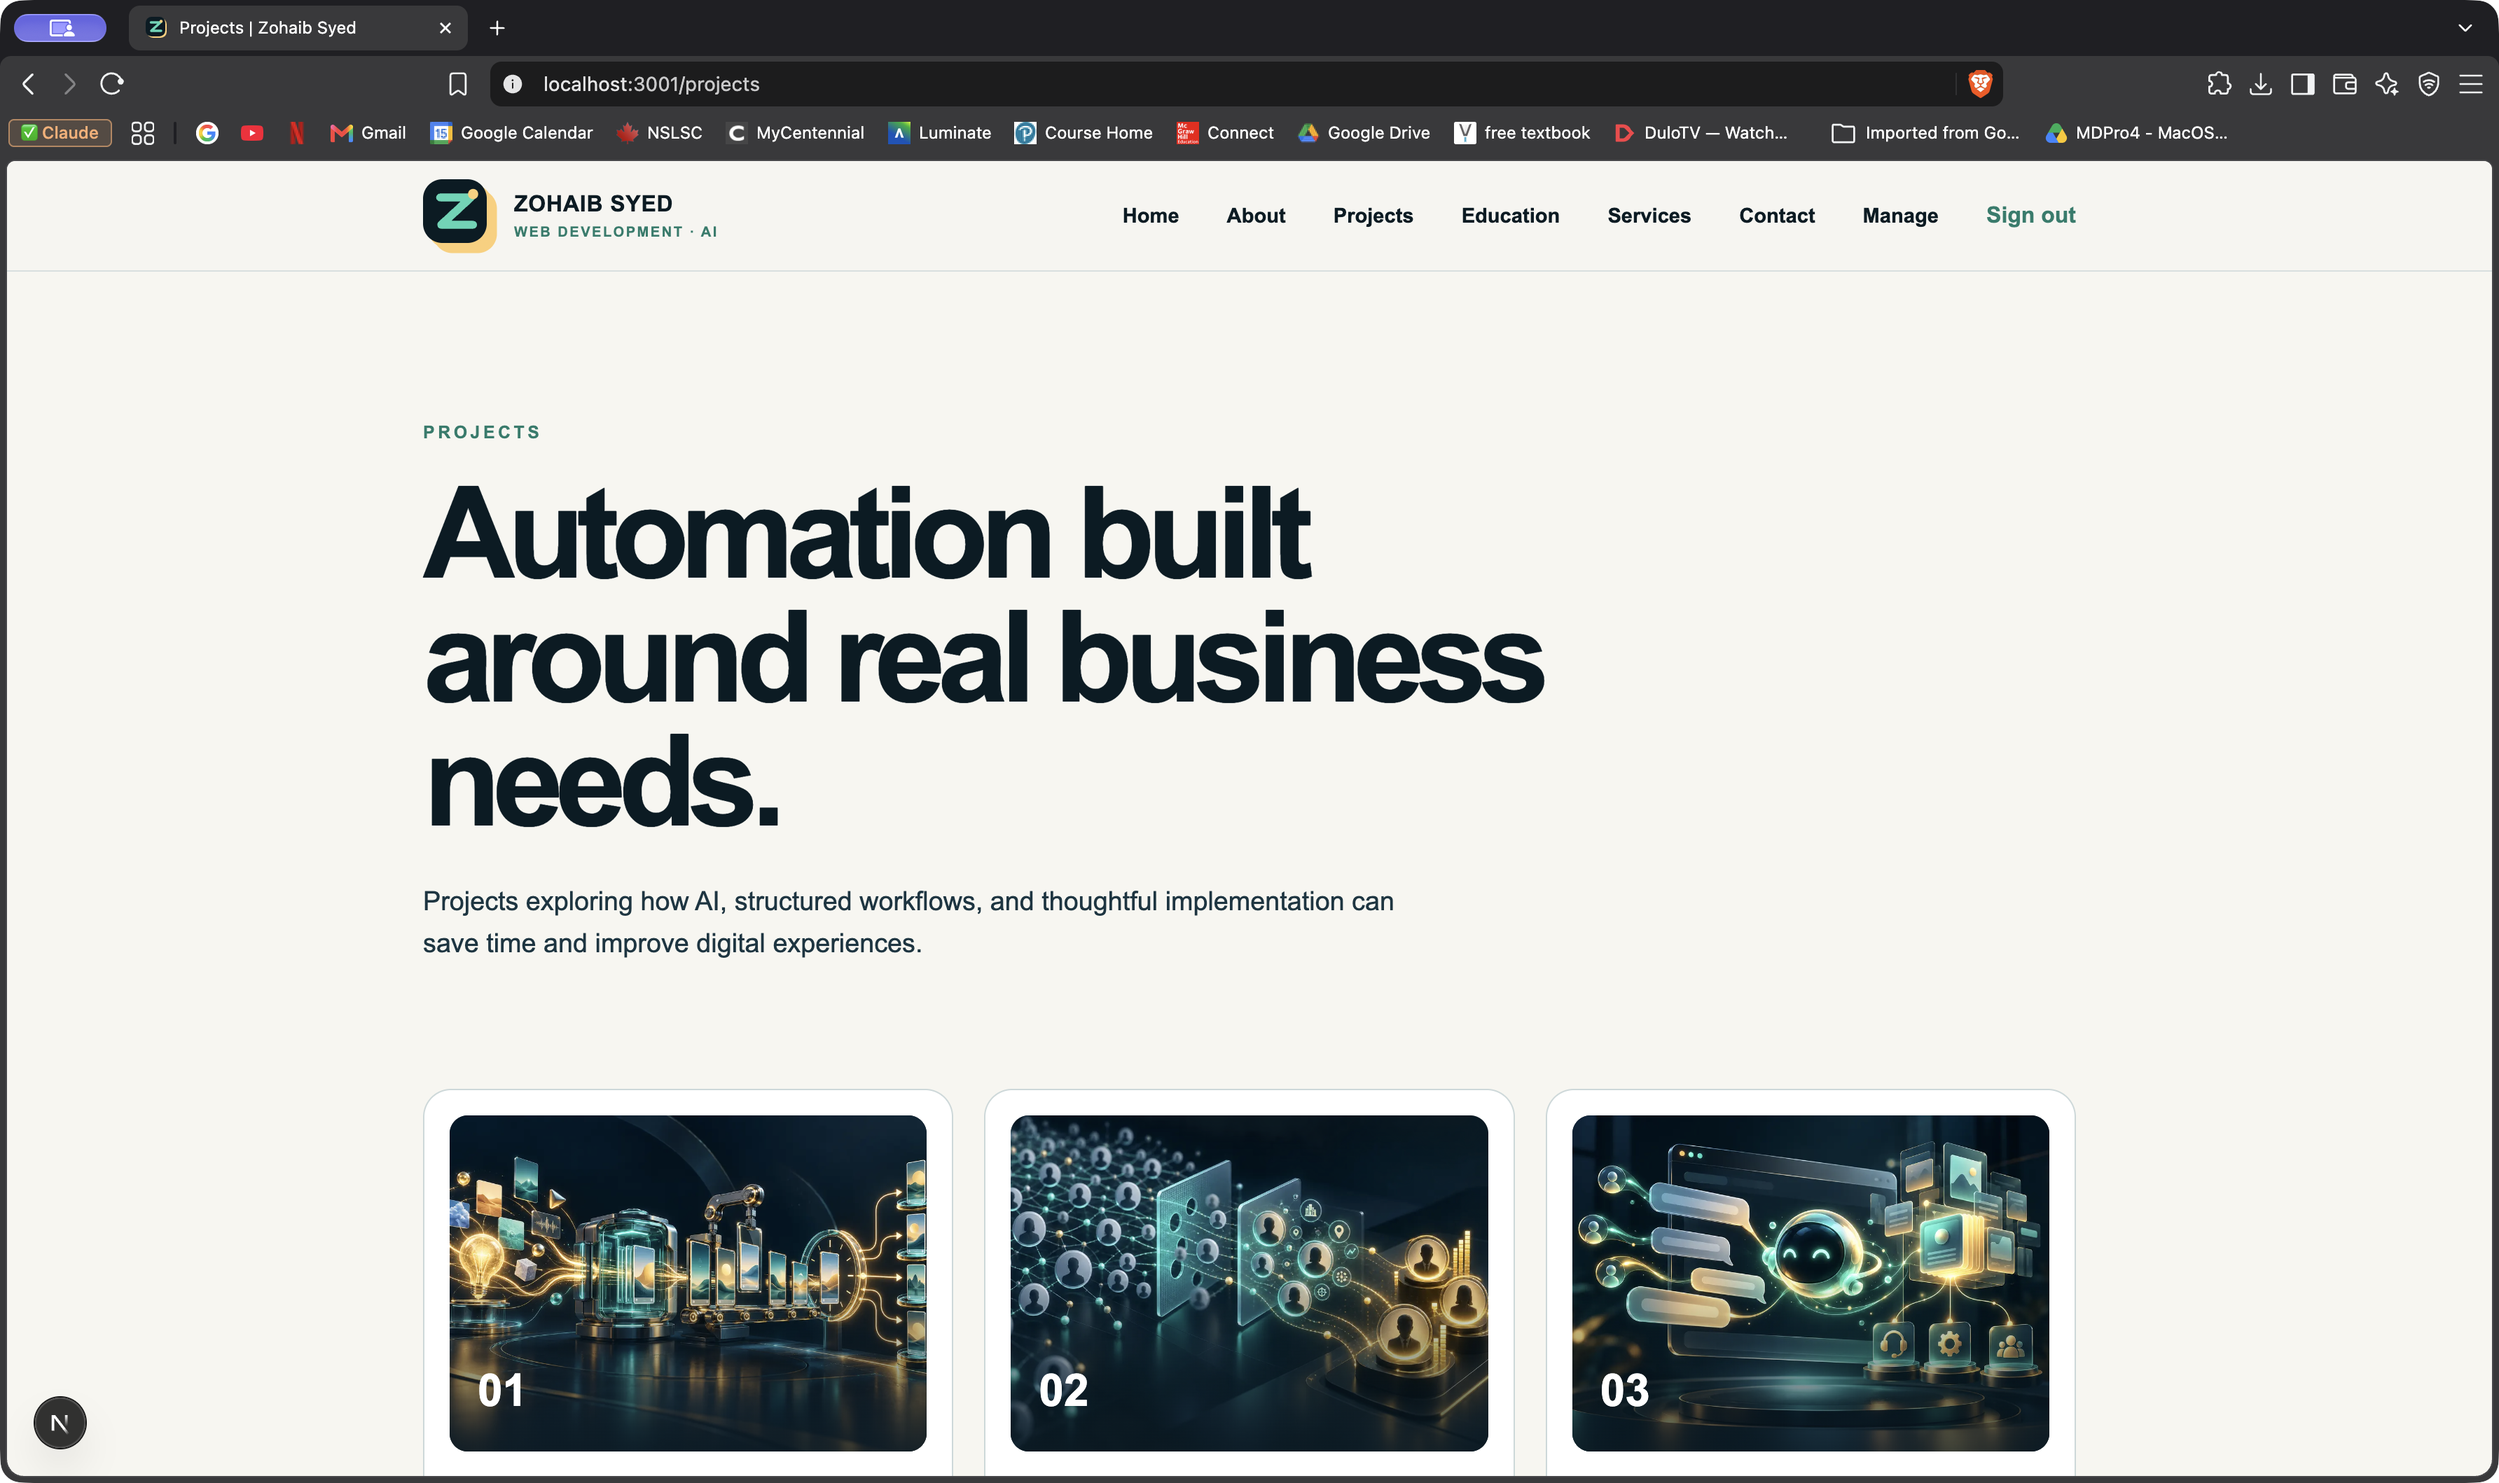
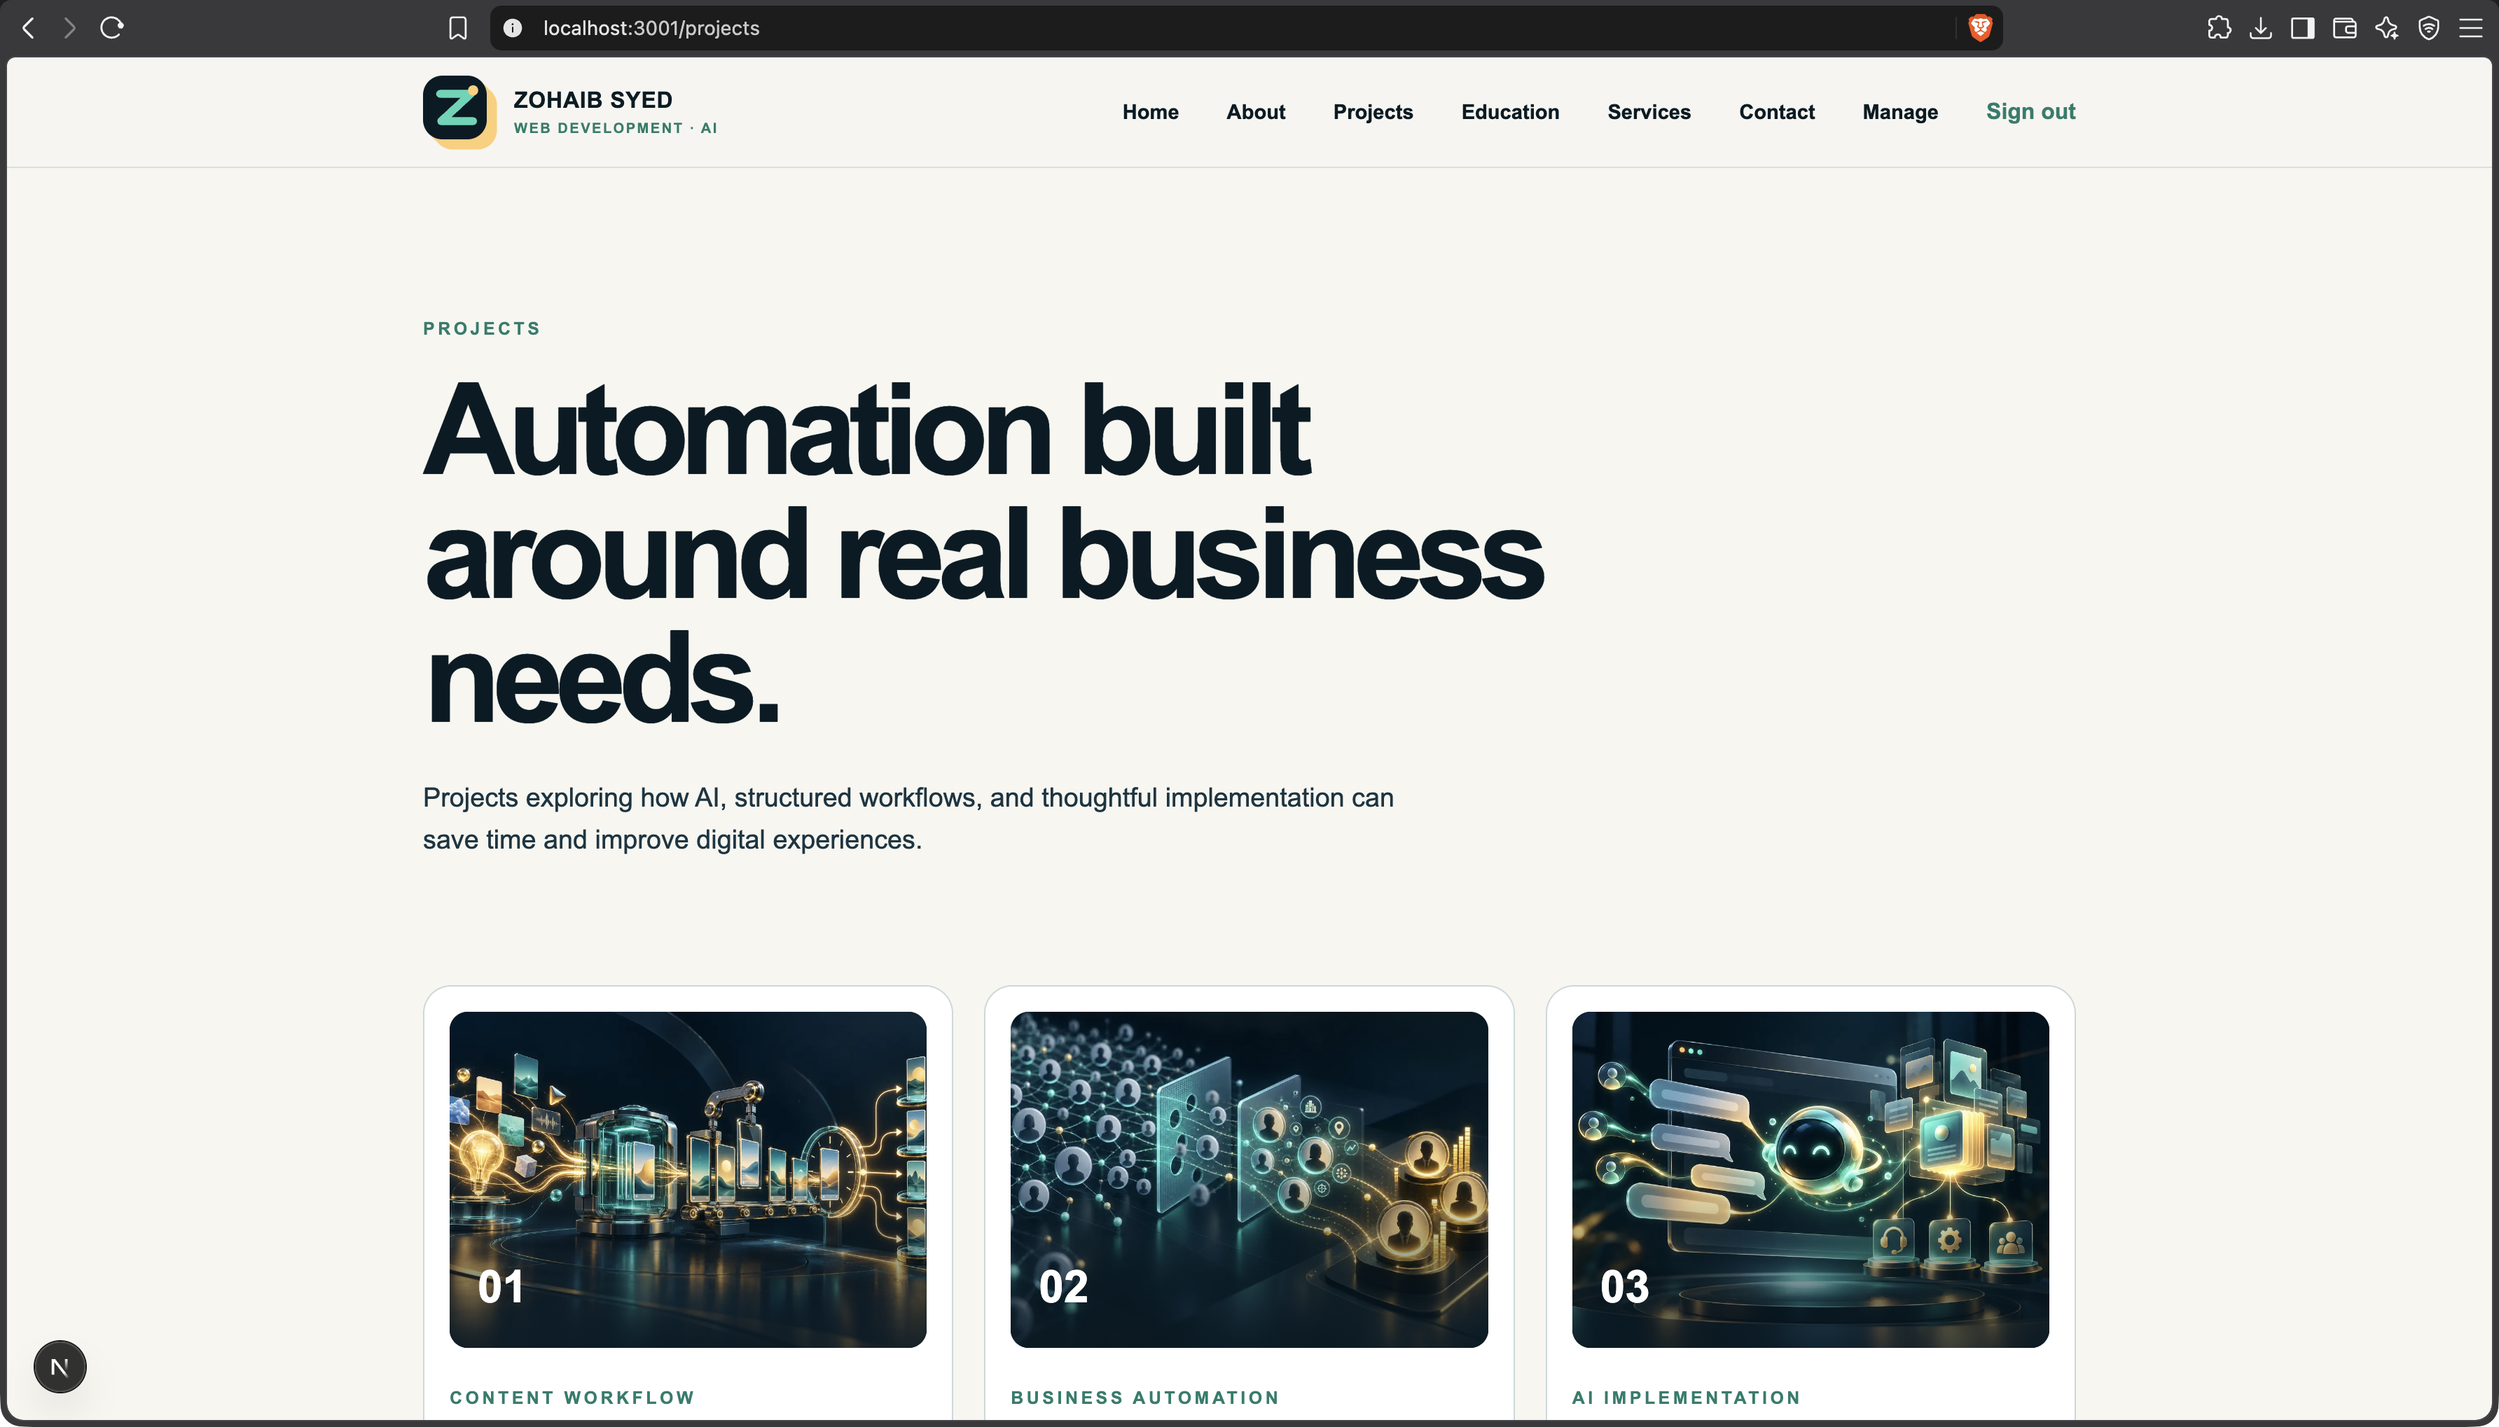
Clean screenshot chrome and finalize Render deployment configuration

diff --git a/server/config/environment.js b/server/config/environment.js
@@ -9,7 +9,7 @@ export const environment = {
   mongoUri: process.env.MONGODB_URI ?? "mongodb://127.0.0.1:27017/Portfolio",
   jwtSecret: process.env.JWT_SECRET ?? "development-only-change-me",
   jwtExpiresIn: process.env.JWT_EXPIRES_IN ?? "2h",
-  clientOrigin: process.env.CLIENT_ORIGIN ?? "http://localhost:3001",
+  clientOrigin: process.env.CLIENT_ORIGIN ?? process.env.RENDER_EXTERNAL_URL ?? "http://localhost:3001",
 };
 
 if (

diff --git a/README.md b/README.md
@@ -61,10 +61,10 @@ npm --prefix client run build
 npm run start:production
 ```
 
-Set `NODE_ENV=production`, `PORT`, an Atlas `MONGODB_URI`, `MONGODB_DB=PortfolioLab3`, a random `JWT_SECRET`, and `CLIENT_ORIGIN` equal to the exact HTTPS site origin. Supply admin credentials and run `npm run seed` once against the hosted database.
+Set `NODE_ENV=production`, `PORT`, an Atlas `MONGODB_URI`, `MONGODB_DB=PortfolioLab3`, a random `JWT_SECRET`, and `CLIENT_ORIGIN` equal to the exact HTTPS site origin. The Atlas database is already seeded. Admin credentials are only needed when running the seed script; they are not required as runtime environment variables. On Render, the service origin defaults to its provided `RENDER_EXTERNAL_URL`.
 
 A Dockerfile and Render blueprint (`render.yaml`) are included. Hosting has not been deployed yet. Atlas credentials, network access, and the chosen hosting account must be configured first. The earlier Vercel frontend does not automatically contain these LAB 3 changes.
 
 ## Submission
 
-See `docs/SUBMISSION_CHECKLIST.md`. Local evidence is in `docs/evidence/`: unmodified 3568 × 2118 PNG captures of the real Brave window, with browser chrome and no pointer. A capture manifest records each file’s dimensions and SHA-256 hash. Hosting and the walkthrough recording remain outstanding.
+See `docs/SUBMISSION_CHECKLIST.md`. Local evidence is in `docs/evidence/`: native 3568 × 2038 PNG captures of the real Brave window with the address bar visible and no pointer. The bookmarks bar is hidden and only the top window-controls strip is cropped. A capture manifest records each file’s dimensions and SHA-256 hash. Hosting and the walkthrough recording remain outstanding.
